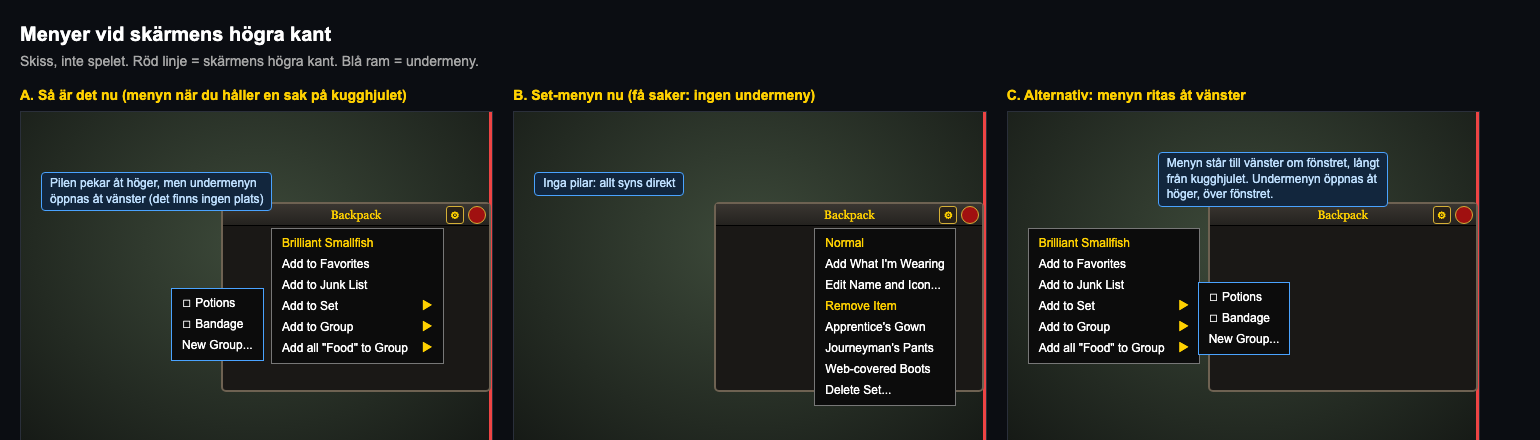
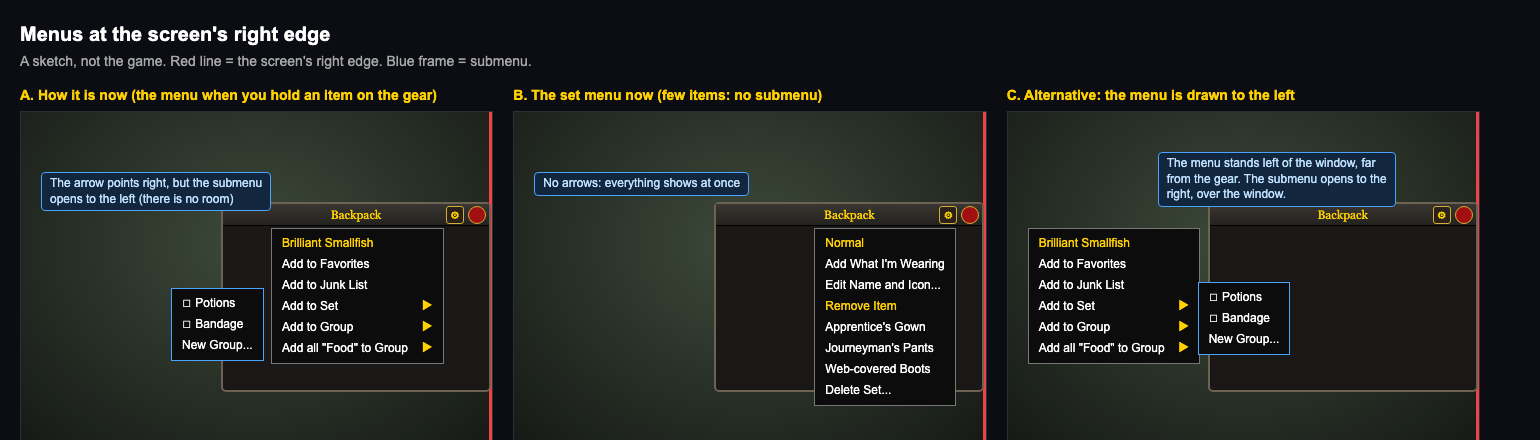
Translate .design/sketch-menus to English (#7)

diff --git a/.design/sketch-menus.html b/.design/sketch-menus.html
@@ -1,4 +1,4 @@
-<!DOCTYPE html><html><head><meta charset="utf-8"><title>Tidy Pack – skiss: menyer vid skärmkanten</title>
+<!DOCTYPE html><html><head><meta charset="utf-8"><title>Tidy Pack – sketch: menus at the screen edge</title>
 <style>
 *{box-sizing:border-box}body{margin:0;padding:20px;background:#0b0d12;color:#d8d8d8;font:14px/1.4 Arial,sans-serif;width:1500px}
 h1{font-size:20px;margin:0 0 4px;color:#fff}.n{color:#a8a8a8;margin:0 0 14px}
@@ -14,22 +14,22 @@ h1{font-size:20px;margin:0 0 4px;color:#fff}.n{color:#a8a8a8;margin:0 0 14px}
 .sub{z-index:4;border-color:#4aa3ff}
 .call{position:absolute;background:#12263d;border:1px solid #4aa3ff;color:#bfe0ff;font:12px/1.3 Arial;padding:3px 8px;border-radius:4px;z-index:6}
 </style></head><body>
-<h1>Menyer vid skärmens högra kant</h1><p class="n">Skiss, inte spelet. Röd linje = skärmens högra kant. Blå ram = undermeny.</p>
+<h1>Menus at the screen's right edge</h1><p class="n">A sketch, not the game. Red line = the screen's right edge. Blue frame = submenu.</p>
 <div class="row">
-<div class="col"><h2>A. Så är det nu (menyn när du håller en sak på kugghjulet)</h2><div class="scr"><div class="edge"></div>
+<div class="col"><h2>A. How it is now (the menu when you hold an item on the gear)</h2><div class="scr"><div class="edge"></div>
 <div class="bag" style="left:200px;top:90px;width:270px;height:190px"><div class="t">Backpack</div><div class="g">⚙</div><div class="x"></div></div>
 <div class="m" style="left:250px;top:116px"><b>Brilliant Smallfish</b>Add to Favorites<br>Add to Junk List<div class="a">Add to Set<i>▶</i></div><div class="a">Add to Group<i>▶</i></div><div class="a">Add all "Food" to Group<i>▶</i></div></div>
 <div class="m sub" style="left:150px;top:176px">☐ Potions<br>☐ Bandage<br>New Group...</div>
-<div class="call" style="left:20px;top:60px">Pilen pekar åt höger, men undermenyn<br>öppnas åt vänster (det finns ingen plats)</div></div></div>
+<div class="call" style="left:20px;top:60px">The arrow points right, but the submenu<br>opens to the left (there is no room)</div></div></div>
 
-<div class="col"><h2>B. Set-menyn nu (få saker: ingen undermeny)</h2><div class="scr"><div class="edge"></div>
+<div class="col"><h2>B. The set menu now (few items: no submenu)</h2><div class="scr"><div class="edge"></div>
 <div class="bag" style="left:200px;top:90px;width:270px;height:190px"><div class="t">Backpack</div><div class="g">⚙</div><div class="x"></div></div>
 <div class="m" style="left:300px;top:116px"><b>Normal</b>Add What I'm Wearing<br>Edit Name and Icon...<b>Remove Item</b>Apprentice's Gown<br>Journeyman's Pants<br>Web-covered Boots<br>Delete Set...</div>
-<div class="call" style="left:20px;top:60px">Inga pilar: allt syns direkt</div></div></div>
+<div class="call" style="left:20px;top:60px">No arrows: everything shows at once</div></div></div>
 
-<div class="col"><h2>C. Alternativ: menyn ritas åt vänster</h2><div class="scr"><div class="edge"></div>
+<div class="col"><h2>C. Alternative: the menu is drawn to the left</h2><div class="scr"><div class="edge"></div>
 <div class="bag" style="left:200px;top:90px;width:270px;height:190px"><div class="t">Backpack</div><div class="g">⚙</div><div class="x"></div></div>
 <div class="m" style="left:20px;top:116px"><b>Brilliant Smallfish</b>Add to Favorites<br>Add to Junk List<div class="a">Add to Set<i>▶</i></div><div class="a">Add to Group<i>▶</i></div><div class="a">Add all "Food" to Group<i>▶</i></div></div>
 <div class="m sub" style="left:190px;top:170px">☐ Potions<br>☐ Bandage<br>New Group...</div>
-<div class="call" style="left:150px;top:40px">Menyn står till vänster om fönstret, långt<br>från kugghjulet. Undermenyn öppnas åt<br>höger, över fönstret.</div></div></div>
+<div class="call" style="left:150px;top:40px">The menu stands left of the window, far<br>from the gear. The submenu opens to the<br>right, over the window.</div></div></div>
 </div></body></html>
